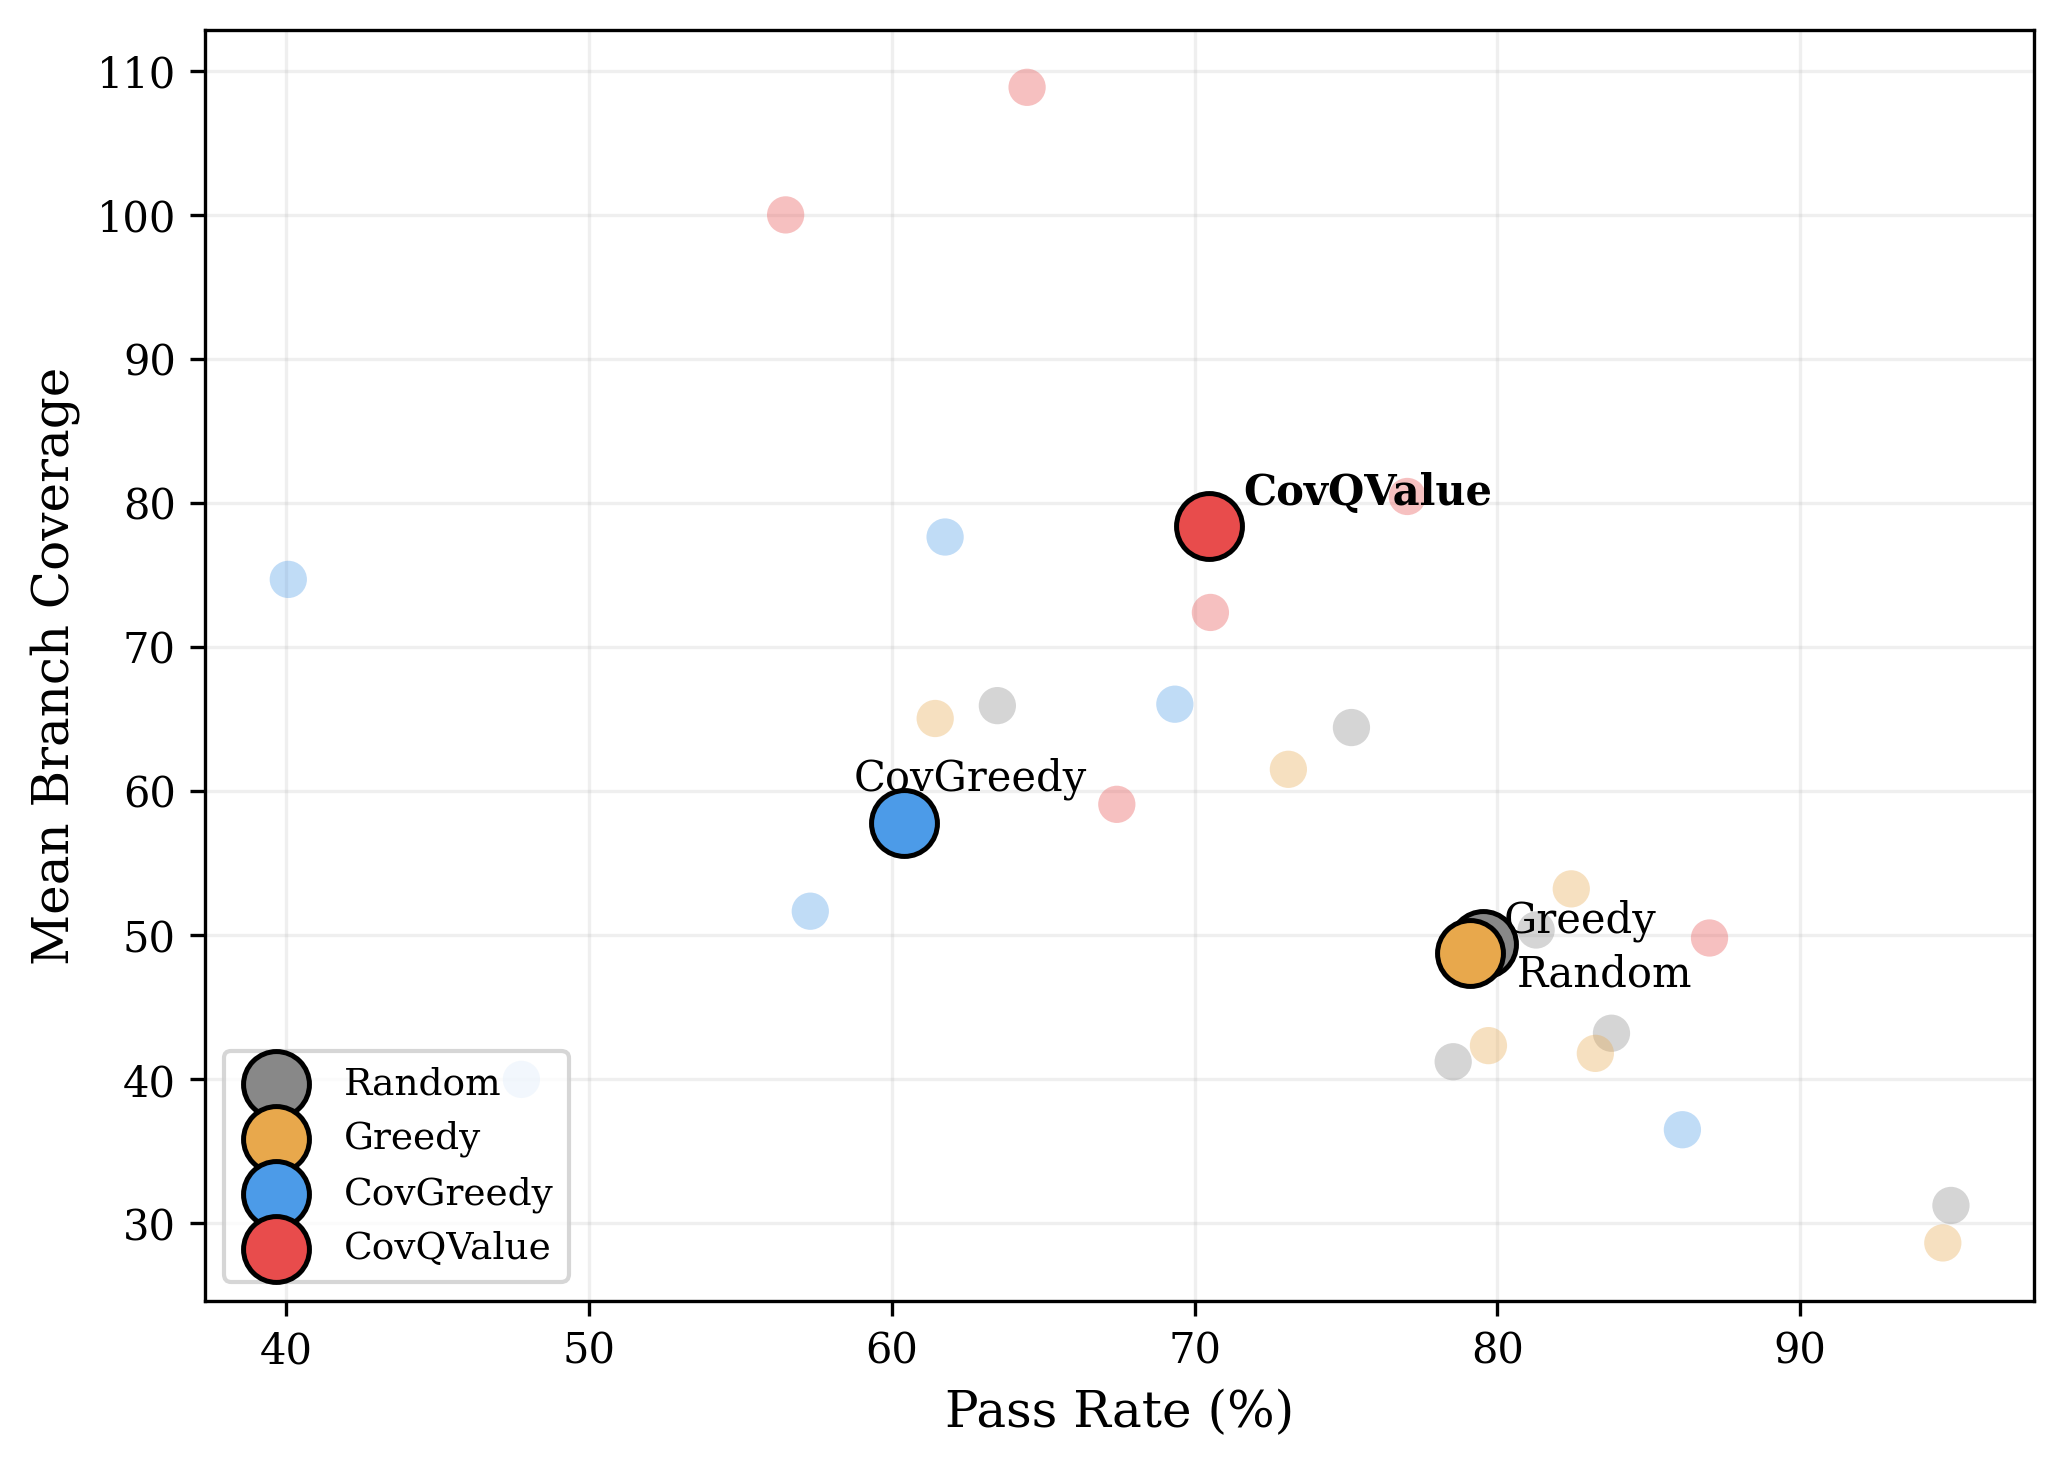
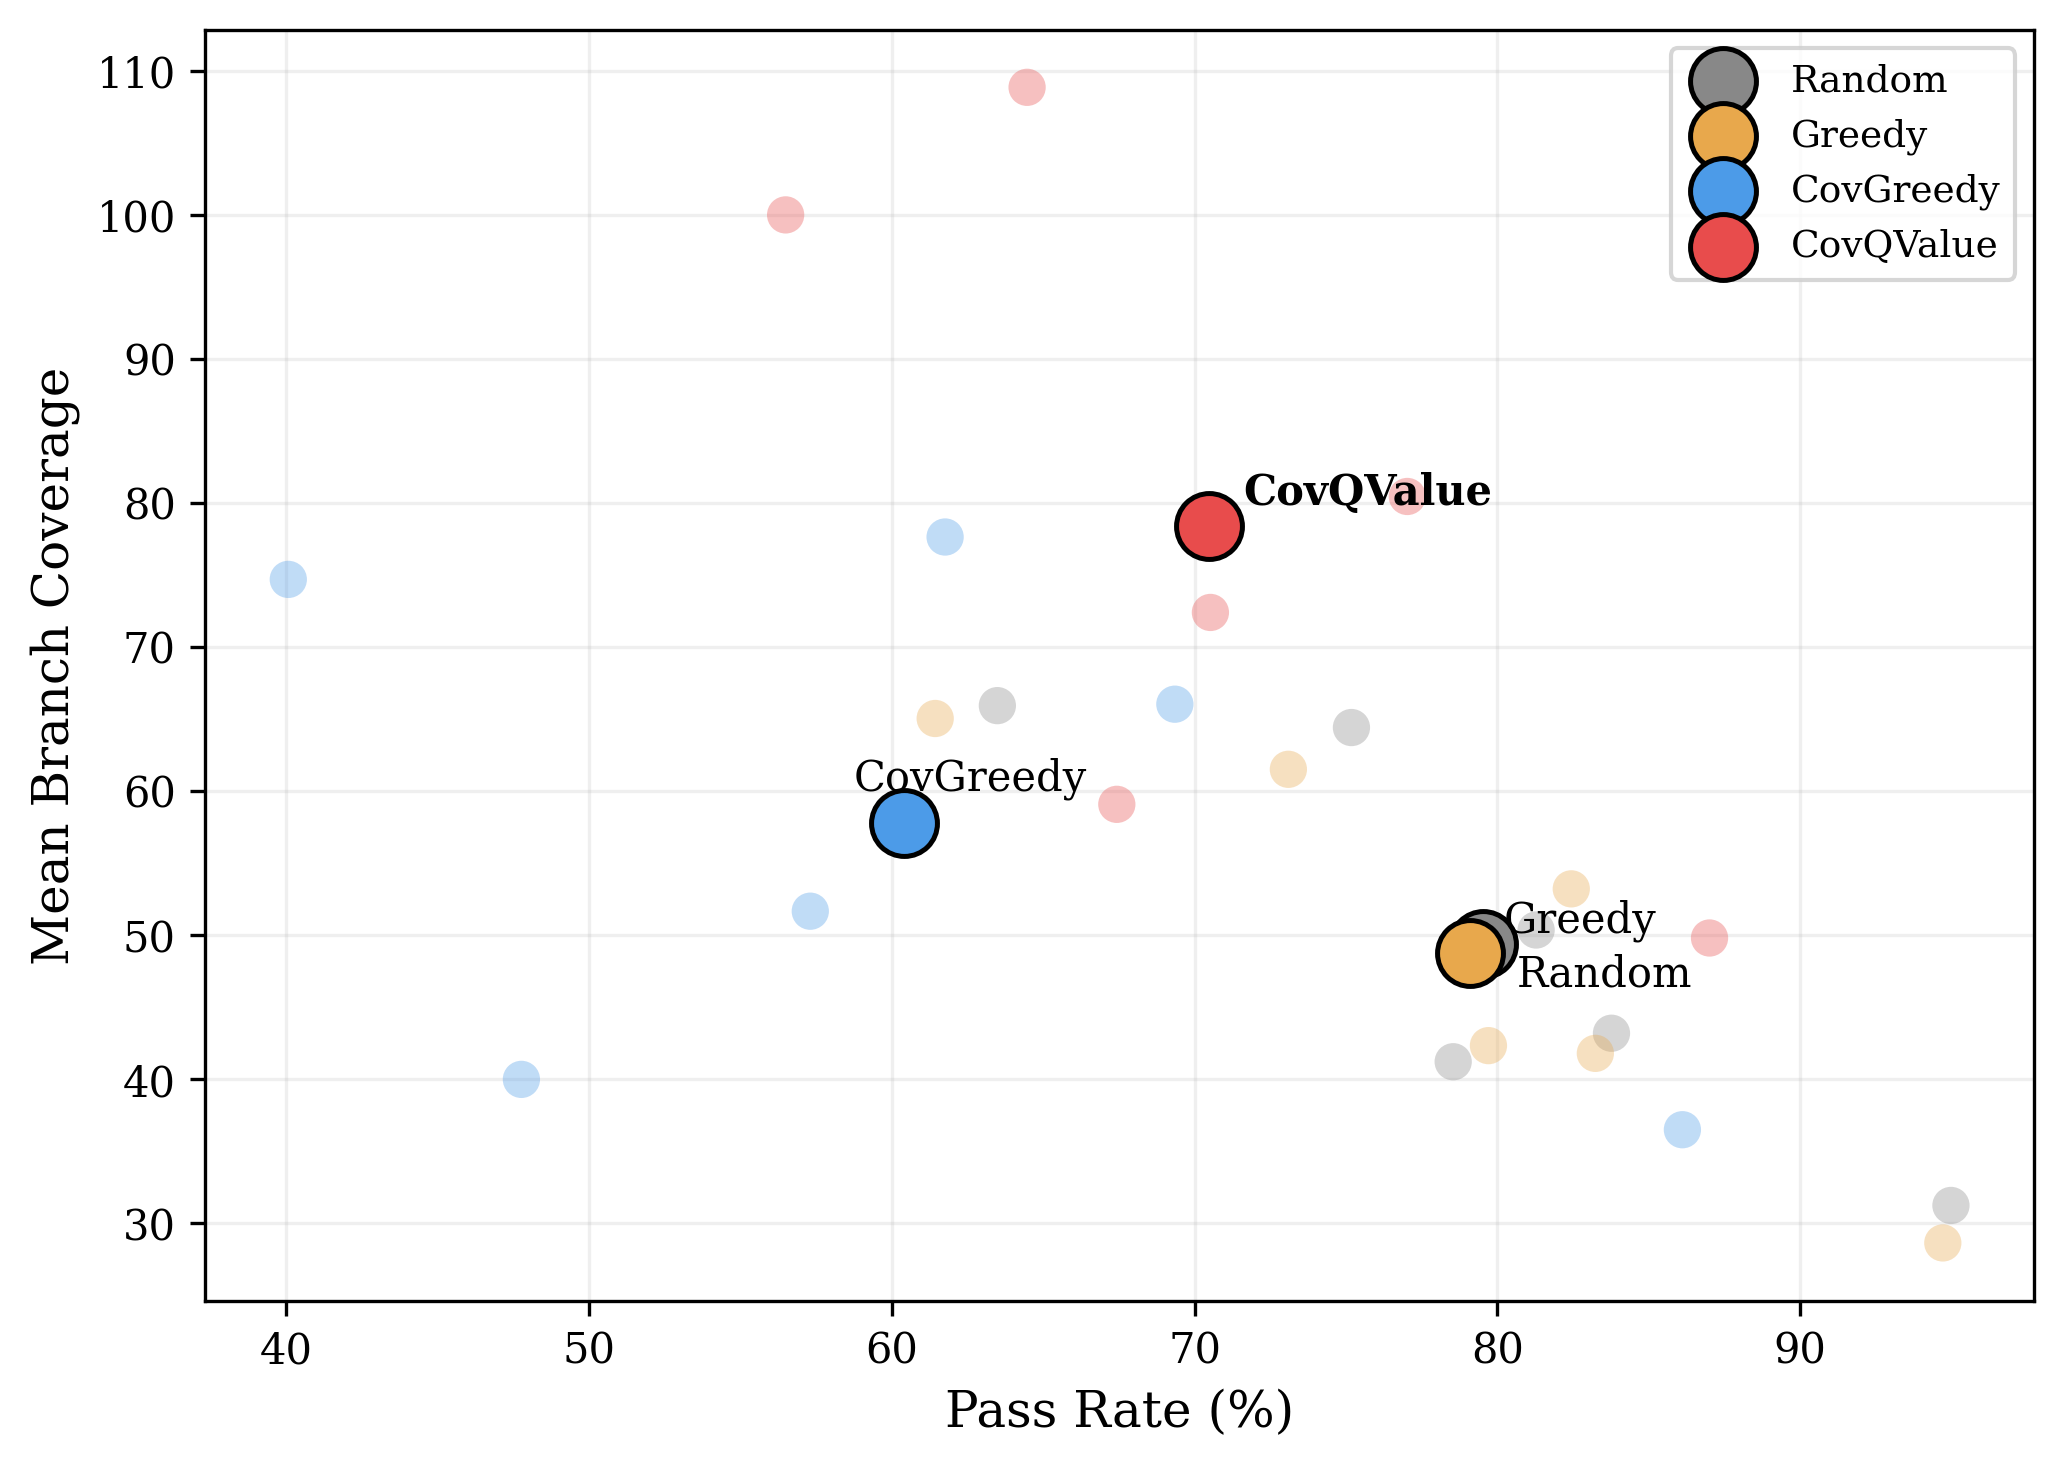
Move fig4 legend to upper right

Changed region(s): [[0.093, 0.705, 0.2791, 0.889], [0.8062, 0.0307, 0.9922, 0.2146]]

diff --git a/plots/paper_figures.py b/plots/paper_figures.py
@@ -302,7 +302,7 @@ def fig_pass_rate_vs_coverage(data):
 
     ax.set_xlabel("Pass Rate (%)")
     ax.set_ylabel("Mean Branch Coverage")
-    ax.legend(loc="lower left", fontsize=9)
+    ax.legend(loc="upper right", fontsize=9)
     ax.grid(True, alpha=0.2)
 
     plt.tight_layout()
